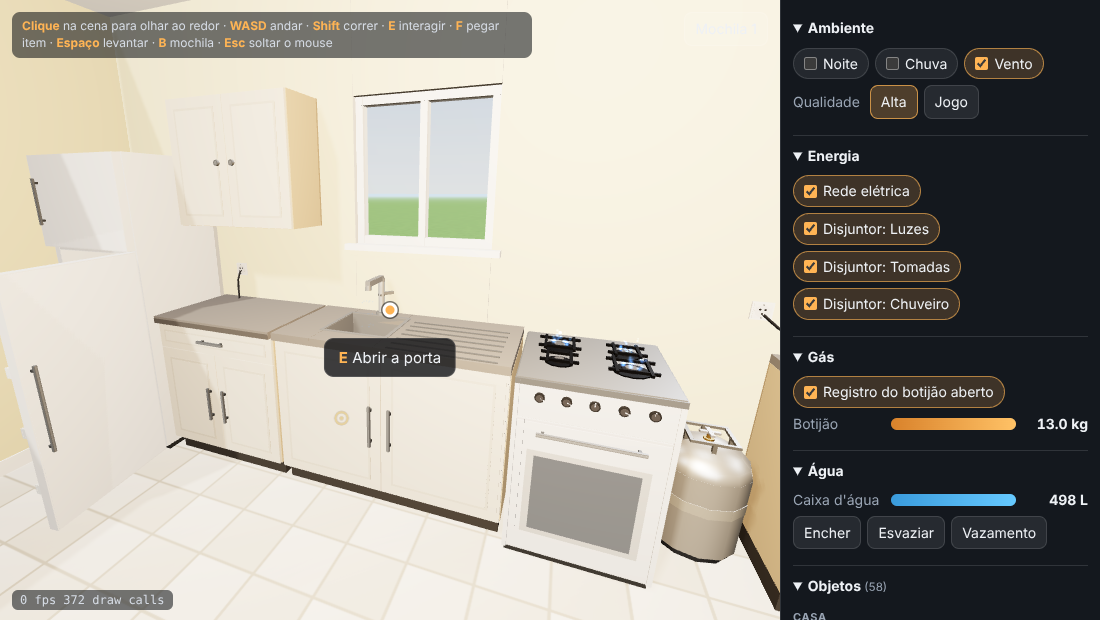
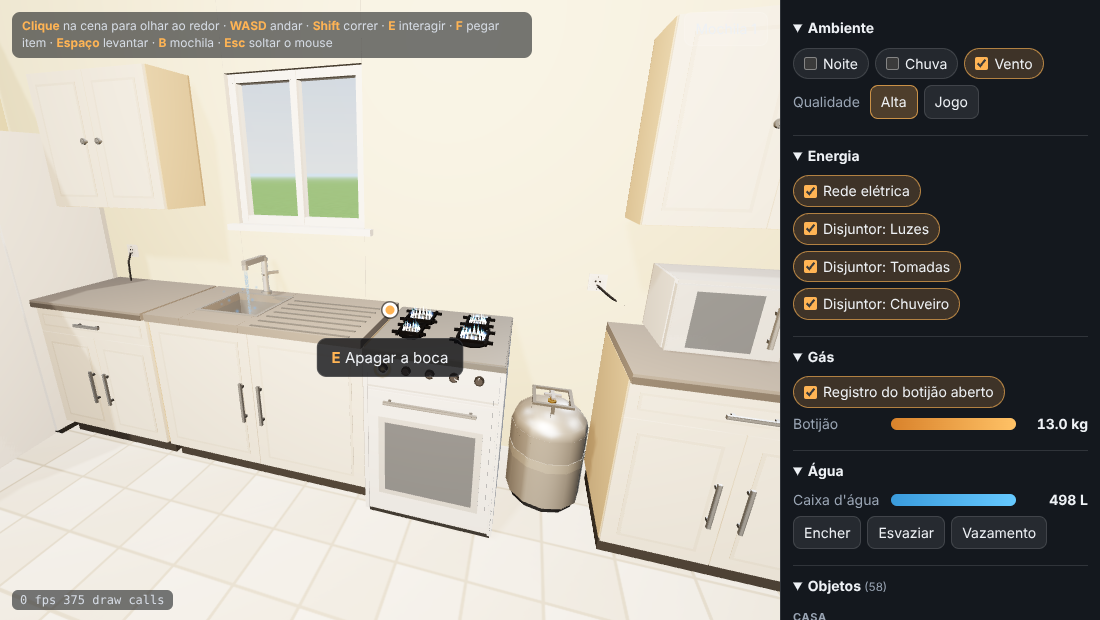
feat(examples): showroom drops its package workarounds, new shots, lower draw-call budget
Removes probePartFrame/objectLocalApi, quiet(), the effects densifying and the lens correction; passes the spec to finish() for merged
blinds and clothes; stove, shower and clothesline shots; the walk test waits for the player to move.

Claude-Session: https://claude.ai/code/session_017vcr6zHrAeoWxt9fwp4rXz

diff --git a/examples/interactables-showroom/src/showroom.js b/examples/interactables-showroom/src/showroom.js
@@ -290,7 +290,8 @@
   renderer.toneMappingExposure = 1.0
   renderer.shadowMap.enabled = true
   renderer.shadowMap.type = T.PCFSoftShadowMap
-  renderer.info.autoReset = false // the mirror renders the scene again inside render(): count both passes
+  // three resets renderer.info after the shadow pass (and the mirror's nested render resets it again): count every pass ourselves
+  renderer.info.autoReset = false
 
   const scene = new T.Scene()
   scene.fog = new T.Fog(0xcfe0ec, 45, 150)
@@ -586,20 +587,8 @@
   const gfx = GT.createThreeAdapter(T, { document, Reflector, envMap: envTexture })
 
   let mats = null
-  /** Runs `fn` without three's "parameter has value of undefined" warnings (the adapter's game-quality defaults pass undefined props). */
-  function quiet(fn) {
-    const warn = console.warn
-    console.warn = (msg, ...rest) => {
-      if (!String(msg).includes('has value of undefined')) warn.call(console, msg, ...rest)
-    }
-    try {
-      return fn()
-    } finally {
-      console.warn = warn
-    }
-  }
   function makeMaterials() {
-    const m = quiet(() => GT.createDefaultMaterials(T, state.quality))
+    const m = GT.createDefaultMaterials(T, state.quality)
     for (const k of Object.keys(m)) if ('envMapIntensity' in m[k]) m[k].envMapIntensity = k === 'metal' ? 0.9 : 0.5
     return m
   }
@@ -608,45 +597,10 @@
   const entries = new Map()
   const order = []
 
-  // The household pack draws inside `part(...)` in the part frame (relative to the pivot); the mesh api converts object-local
-  // coordinates into the part frame itself. When both do the conversion the parts land one pivot away from where they belong, so
-  // the showroom probes the adapter once and, if needed, hands it object-local coordinates (add the pivot back).
-  function probePartFrame() {
-    const m = quiet(() => gfx.createMeshApi({ quality: state.quality, materials: mats }))
-    m.api.part('probe', [1, 0, 0], 0, () => m.api.box({}, 'plain', 0.5, 0, 0, 0.2, 0.2, 0.2, 0xffffff, 0, 0, 0))
-    const g = m.finish().parts.probe.children[0].geometry
-    g.computeBoundingBox()
-    return g.boundingBox.min.x + g.boundingBox.max.x < 0 // -1 (+ 0.5): double conversion
-  }
-  function objectLocalApi(api) {
-    let pv = null
-    const sh = (x, y, z) => (pv ? [x + pv[0], y + pv[1], z + pv[2]] : [x, y, z])
-    return {
-      box: (M, m, x, y, z, ...r) => api.box(M, m, ...sh(x, y, z), ...r),
-      cylinder: (M, m, x, y, z, ...r) => api.cylinder(M, m, ...sh(x, y, z), ...r),
-      leaf: (M, x, y, z, ...r) => api.leaf(M, ...sh(x, y, z), ...r),
-      plane: (M, m, x, y, z, ...r) => api.plane(M, m, ...sh(x, y, z), ...r),
-      light: (M, x, y, z, ...r) => api.light(M, ...sh(x, y, z), ...r),
-      part(id, pivot, ry, draw) {
-        const prev = pv
-        api.part(id, pivot, ry, () => {
-          pv = pivot
-          try {
-            draw()
-          } finally {
-            pv = prev
-          }
-        })
-      },
-    }
-  }
-  let shiftParts = null
-
   function buildVisual(type, item) {
-    const mesh = quiet(() => gfx.createMeshApi({ quality: state.quality, materials: mats, shadows: true }))
-    if (shiftParts === null) shiftParts = probePartFrame()
-    const spec = hh.build(type, item, shiftParts ? objectLocalApi(mesh.api) : mesh.api)
-    const res = mesh.finish()
+    const mesh = gfx.createMeshApi({ quality: state.quality, materials: mats, shadows: true, swayAmplitude: 0.035 })
+    const spec = hh.build(type, item, mesh.api)
+    const res = mesh.finish(spec) // game quality merges blind slats and clothes into a few meshes
     for (const l of res.lights) l.removeFromParent() // the showroom owns the lights (a handful of PointLights, constant count)
     return { spec, group: res.group, parts: res.parts }
   }
@@ -686,7 +640,7 @@
     for (const s of spec.soft || []) {
       if (s.kind !== 'cloth' && s.kind !== 'curtain') continue
       const g = e.parts[s.part || s.id]
-      if (!g) continue
+      if (!g || g.userData.merged) continue // merged cloth already carries its own sway shader
       g.traverse((o) => {
         if (o.isMesh && !o.userData.sway) gfx.attachSway(o, { amplitude: s.kind === 'cloth' ? 0.035 : 0.02 })
       })
@@ -1477,18 +1431,7 @@
     const em = world.emitters()
     const leak = leakEmitter()
     if (leak) em.push(leak)
-    // The pool emits a fixed rate per emitter id and `size` is only a hint: a thin stream (shower, tap) reads better with a few
-    // copies side by side and a little thicker drops.
-    for (let i = 0, n = em.length; i < n; i++) {
-      const e = em[i]
-      if (e.kind === 'water' && e.intensity > 0.25) {
-        em[i] = Object.assign({}, e, { size: e.size * 1.7 })
-        for (let k = 1; k <= 2; k++) em.push(Object.assign({}, em[i], { id: `${e.id}#${k}`, pos: [e.pos[0] + (k === 1 ? 0.012 : -0.012), e.pos[1], e.pos[2] + (k === 1 ? -0.01 : 0.01)] }))
-      } else if (e.kind === 'steam') {
-        for (let k = 1; k <= 2; k++) em.push(Object.assign({}, e, { id: `${e.id}#${k}`, size: e.size * 1.3, pos: [e.pos[0] + (k === 1 ? 0.08 : -0.08), e.pos[1], e.pos[2] + (k === 1 ? -0.06 : 0.07)] }))
-      }
-    }
-    effects.update(dt, em)
+    effects.update(dt, em, camera)
     updateItems()
     updateScreens(dt)
     updateLamps()
@@ -1878,8 +1821,7 @@
     camera.aspect = w / h
     camera.fov = w / h < 0.9 ? 82 : 72
     camera.updateProjectionMatrix()
-    // the sprite size assumes a 90 degree lens: correct for ours (and make the thin streams readable)
-    effects.setViewHeight(renderer.domElement.height * (1 / Math.tan((camera.fov * Math.PI) / 360)) * 1.6)
+    effects.setViewHeight(renderer.domElement.height)
   }
 
   // ---------------------------------------------------------------------------------------------------------------------------

diff --git a/examples/interactables-showroom/README.md b/examples/interactables-showroom/README.md
@@ -8,4 +8,4 @@ Walkable first-person 3D showroom of every household object (pt-BR UI), built on
     node test.mjs            # Playwright, file:// with network blocked, writes shots/
 
 Draw calls in game quality (including shadow pass and a mirror in view):
-worst 690 (overview, shadow redrawn), steady 39 to 372 depending on the view.
+worst 342 (overview, shadow redrawn), steady 34 to 200 depending on the view (before the adapter merged blind slats and clothes and shared the game-quality material: worst 694, steady 43 to 376).
